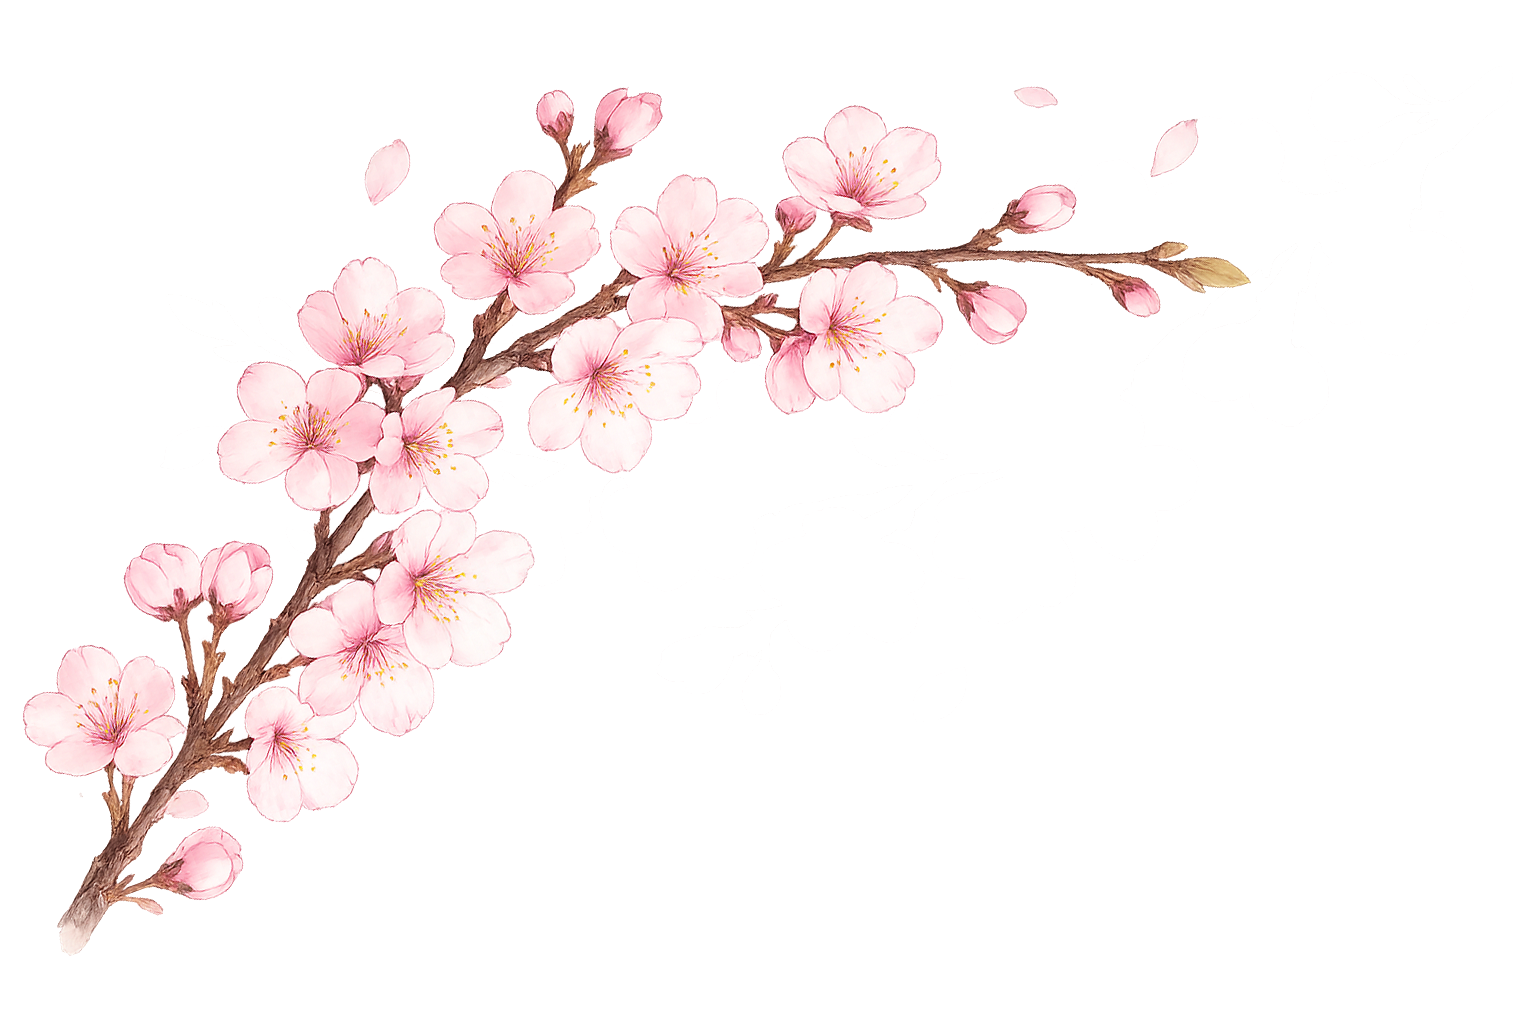
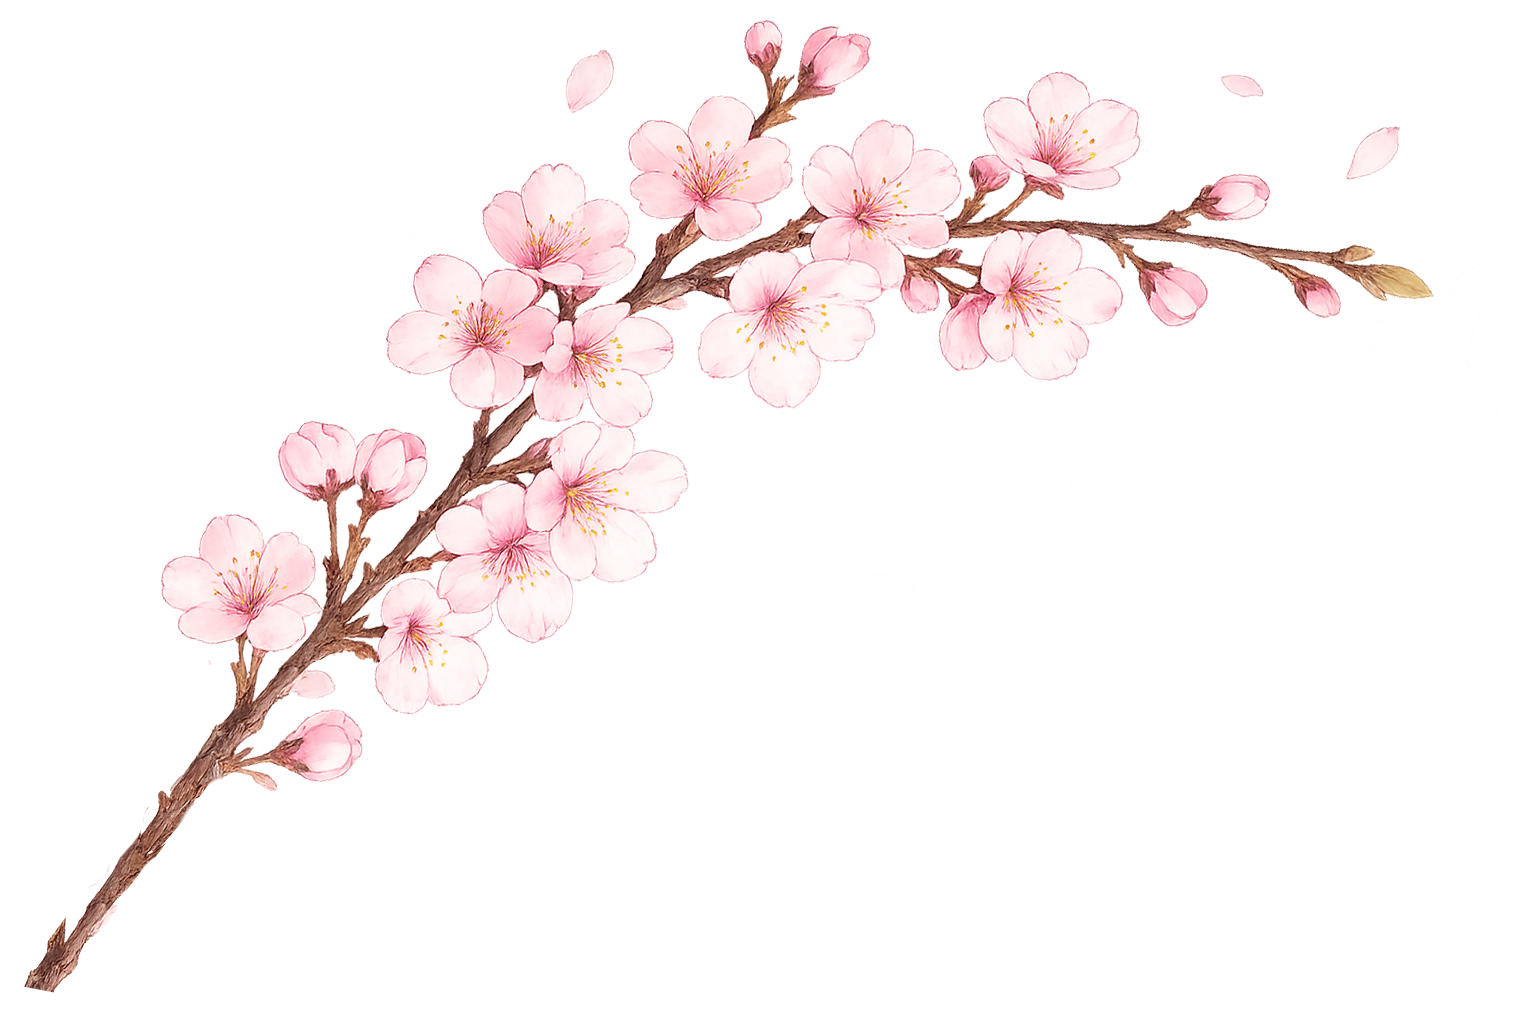
feat: center mobile slider and fix navigation buttons

diff --git a/src/components/GardenCode.jsx b/src/components/GardenCode.jsx
@@ -7,29 +7,37 @@ import "../styles/App.scss";
  * Lista de proyectos dinámicos y un modal con detalles.
  */
 function GardenCode() {
-  // Estado para manejar qué proyecto mostrar en el modal
+  // Estados
   const [selectedProject, setSelectedProject] = useState(null);
+  const [currentIndex, setCurrentIndex] = useState(0);
 
-  // EFECTO PARA EL SCROLL: Se encarga de bloquear/desbloquear el body
+  // Variables
+
+  const maxIndex = projectsData.length - 1;
+
+  // -----  EFECTOS -----
   useEffect(() => {
     if (selectedProject) {
       document.body.style.overflow = "hidden";
     } else {
       document.body.style.overflow = "auto";
     }
-
-    // Limpieza al desmontar el componente
-    return () => {
-      document.body.style.overflow = "auto";
-    };
   }, [selectedProject]);
 
-  const openModal = (project) => {
-    setSelectedProject(project);
+  // Acciones
+  const openModal = (project) => setSelectedProject(project);
+  const closeModal = () => setSelectedProject(null);
+
+  const nextSlide = () => {
+    if (currentIndex < maxIndex) {
+      setCurrentIndex(currentIndex + 1);
+    }
   };
 
-  const closeModal = () => {
-    setSelectedProject(null);
+  const prevSlide = () => {
+    if (currentIndex > 0) {
+      setCurrentIndex(currentIndex - 1);
+    }
   };
 
   return (
@@ -46,24 +54,59 @@ function GardenCode() {
       <h2 className="garden__title">El Jardín</h2>
       <p className="garden__subtitle">Proyectos cultivados con código</p>
 
-      <ul className="garden__list">
-        {projectsData.map((project) => (
-          <li key={project.id} className="garden__item">
-            <article
-              className="project-card"
-              onClick={() => openModal(project)}
-            >
-              <div className="project-card__content">
-                <h3 className="project-card__name">{project.title}</h3>
-                <span className="project-card__plus">+ info</span>
-              </div>
-            </article>
-            <div className="garden__thread"></div>
-          </li>
-        ))}
-      </ul>
+      {/* Contenedor que recorta lo que sobra */}
+      <div className="garden__slider-container">
+        <ul
+          className="garden__list"
+          style={{
+            /* Esta fórmula centra la flor seleccionada */
+            transform: `translateX(-${currentIndex * 11}rem)`,
+            transition: "transform 0.5s cubic-bezier(0.4, 0, 0.2, 1)",
+          }}
+        >
+          {projectsData.map((project, index) => {
+            const isCenter = index === currentIndex;
 
-      {/* RENDERIZADO CONDICIONAL DEL MODAL */}
+            return (
+              <li
+                key={project.id}
+                className={`garden__item ${isCenter ? "is-center" : ""}`}
+              >
+                <article
+                  className="project-card"
+                  onClick={() => openModal(project)}
+                >
+                  <div className="project-card__content">
+                    <h3 className="project-card__name">{project.title}</h3>
+                    <span className="project-card__plus">+ info</span>
+                  </div>
+                </article>
+                <div className="garden__thread"></div>
+              </li>
+            );
+          })}
+        </ul>
+      </div>
+
+      <div className="garden__nav-actions">
+        <button
+          onClick={prevSlide}
+          className="garden__nav-btn"
+          disabled={currentIndex === 0}
+        >
+          Prev
+        </button>
+
+        <button
+          onClick={nextSlide}
+          className="garden__nav-btn"
+          disabled={currentIndex === maxIndex}
+        >
+          Next
+        </button>
+      </div>
+
+      {/* -- MODAL -- */}
       {selectedProject && (
         <div className="modal-overlay" onClick={closeModal}>
           <div className="modal-content" onClick={(e) => e.stopPropagation()}>

diff --git a/src/styles/pages/_garden.scss b/src/styles/pages/_garden.scss
@@ -2,7 +2,7 @@
 // Contenedor principal con estética Zen y caída de pétalos
 
 .garden {
-  padding: 7rem 1.25rem;
+  padding: 7rem 0.5rem;
   position: relative;
   overflow: hidden;
   background: linear-gradient(
@@ -39,29 +39,53 @@
     z-index: 10;
   }
 
+  .garden__slider-container {
+    position: relative;
+    width: 100%;
+    overflow: hidden;
+    padding: 3rem 0;
+    display: block;
+    justify-content: center;
+    align-items: center;
+  }
+
   &__list {
     display: flex;
-    flex-wrap: wrap;
-    justify-content: center;
-    align-items: flex-end;
-    gap: 1rem;
+    flex-wrap: nowrap;
+    align-items: center;
+    gap: 3rem;
     list-style: none;
-    margin: 7rem auto 0;
-    max-width: 1000px;
-    border-bottom: 2px solid rgba($color-green, 0.3);
+    margin: 0;
+    padding-left: calc(50% - 4rem);
+    padding-right: 50%;
+    /* La suavidad del giro */
+    transition: transform 0.6s cubic-bezier(0.4, 0, 0.2, 1);
   }
 
   &__item {
+    flex: 0 0 8rem;
+    width: 8rem;
     display: flex;
     flex-direction: column;
     align-items: center;
+
+    transform: scale(0.85);
+    filter: blur(1px);
+
     // Balanceo
     animation: plantSway 6s ease-in-out infinite;
     transform-origin: bottom center; // balancea desde arriba
 
-    &:nth-child(even) {
-      animation-delay: -2s; // Para que no todos se muevan a la vez
-      margin-top: 2rem;
+    &.is-center {
+      opacity: 1;
+      transform: scale(1.1);
+      filter: blur(0);
+      z-index: 10;
+
+      &:nth-child(even) {
+        animation-delay: -2s; // Para que no todos se muevan a la vez
+        margin-top: 2rem;
+      }
     }
   }
 
@@ -89,7 +113,7 @@
   /* Estética de la Flor */
   background: rgba($color-sakura, 0.9);
   border-radius: 50% 50% 50% 50% / 20% 20% 80% 80%;
-  border: 1px solid $color-green;
+  border: 2px solid #ff9bd4;
   box-shadow: $shadow-green;
   transition: all 0.5s ease;
 
@@ -214,6 +238,39 @@
   }
 }
 
+/* ===================== BUTTONS ===================== */
+
+.garden__nav-actions {
+  display: flex;
+  justify-content: center;
+  gap: 2rem;
+  margin-top: 3rem;
+  width: 100%;
+  position: relative;
+  z-index: 40;
+}
+
+.garden__nav-btn {
+  position: relative;
+  top: auto;
+  transform: none;
+  left: auto;
+  right: auto;
+
+  /* Estética */
+  background: $color-stone;
+  border: 0.1rem solid rgba(0, 0, 0, 0.1);
+  color: $background-color;
+  width: 4rem;
+  height: 3.5rem;
+  border-radius: 50% 40% 60% 45%;
+  display: flex;
+  justify-content: center;
+  align-items: center;
+  font-weight: bold;
+  cursor: pointer;
+}
+
 /* ===================== ELEMENTOS DECORATIVOS ===================== */
 // Elementos ambientales (Sakura y etiquetas)
 
@@ -230,17 +287,17 @@
 /* Rama decorativa lateral */
 .sakura-branch {
   position: absolute;
-  top: -1rem;
-  left: 1rem;
+  top: 1rem;
+  left: -1rem;
   width: 25rem;
-  height: 15.625rem;
+  height: 15.6rem;
   background-image: url("/rama.png");
   background-size: contain;
   background-repeat: no-repeat;
-  opacity: 0.6;
+  opacity: 0.7;
   z-index: 1;
   pointer-events: none;
-  transform: rotate(3deg);
+  transform: rotate(10deg);
 }
 
 /* Pétalos animados */
@@ -281,6 +338,12 @@
       flex-direction: row;
       align-items: flex-end;
       margin-top: 30rem;
+    }
+
+    &:hover:not(:disabled) {
+      color: $color-red;
+      background-color: $text-color;
+      transform: scale(1.1);
     }
   }
 }
